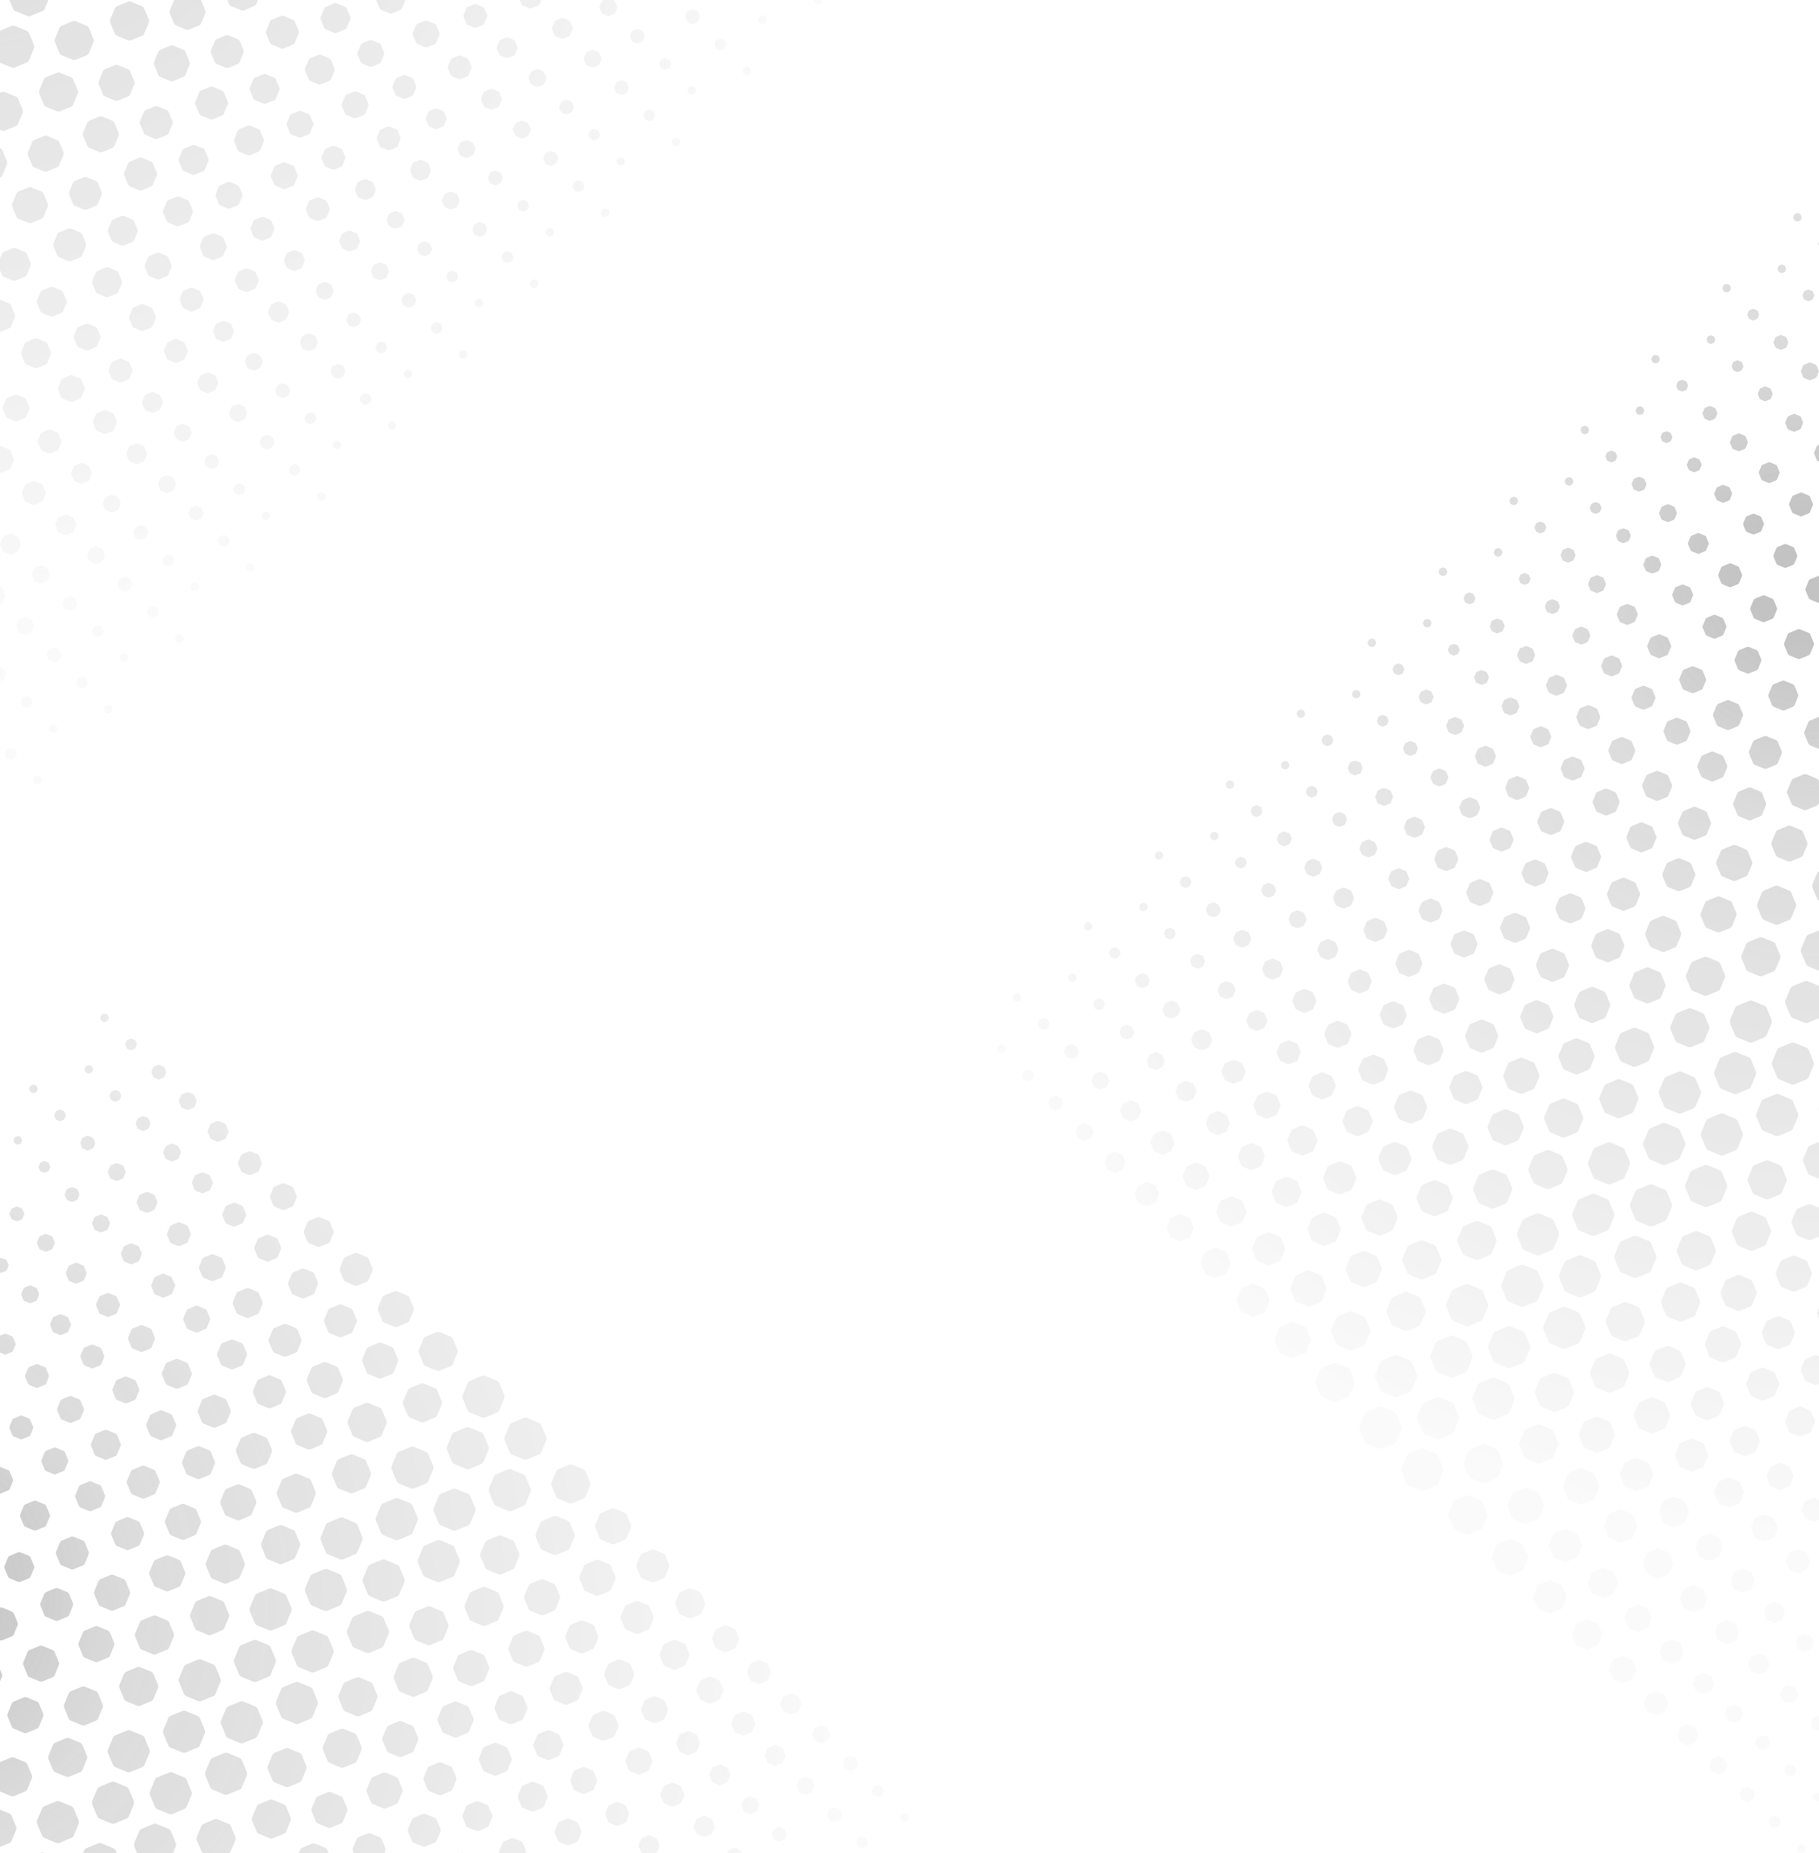
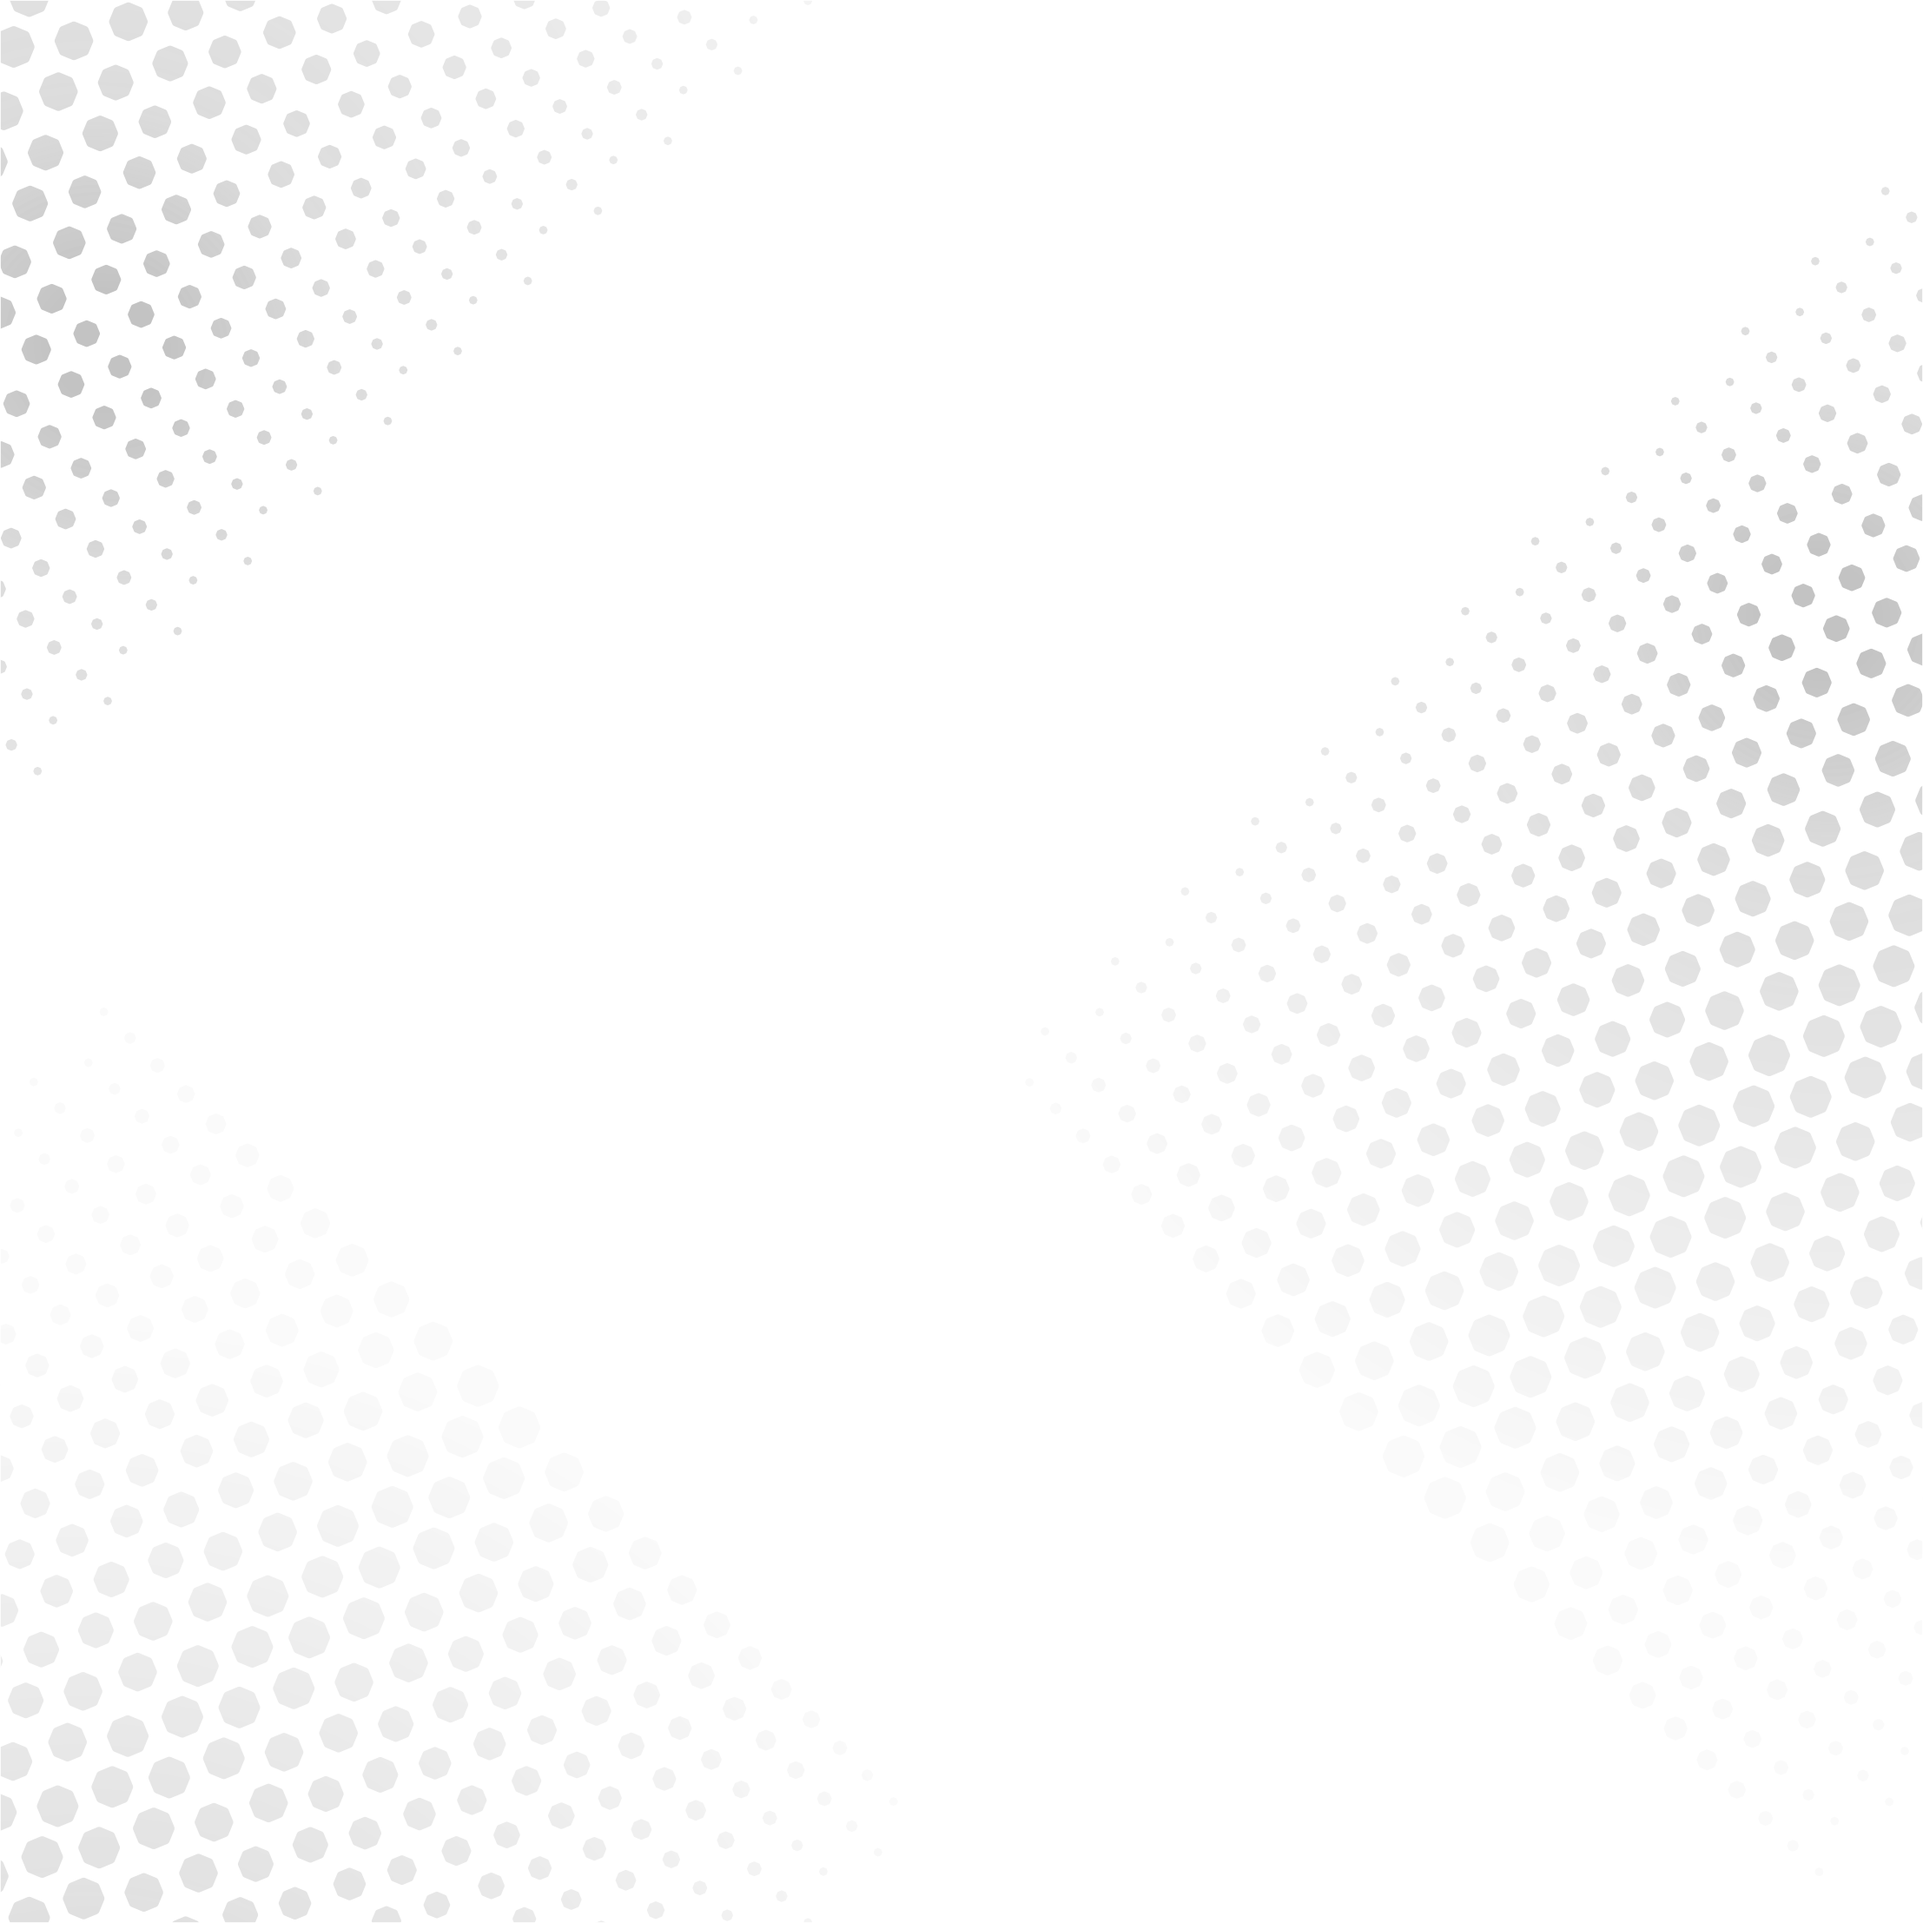
Correct Trama

diff --git a/src/pages/aboutus.js b/src/pages/aboutus.js
@@ -4,7 +4,7 @@ import get from 'lodash/get';
 import Container from '../components/Container';
 import AvatarTeam from '../components/Avatar';
 import { makeStyles } from '@material-ui/core/styles';
-import BackgroundImage from '../assets/Background.png';
+import BackgroundImage from '../assets/Trama.png';
 import Services from '../components/Services';
 import { Grid } from '@material-ui/core';
 

diff --git a/src/pages/news.js b/src/pages/news.js
@@ -9,7 +9,7 @@ import SearchIcon from '@material-ui/icons/Search';
 import PostPreView from '../components/PostPreView';
 import Container from '../components/Container';
 import Events from '../components/Events';
-import BackgroundImage from '../assets/Background.png';
+import BackgroundImage from '../assets/Trama.png';
 
 const styles = makeStyles({
   root: {

diff --git a/src/pages/ourservices.js b/src/pages/ourservices.js
@@ -2,7 +2,7 @@ import React from 'react';
 import { graphql } from 'gatsby';
 import get from 'lodash/get';
 import Container from '../components/Container';
-import BackgroundImage from '../assets/Background.png';
+import BackgroundImage from '../assets/Trama.png';
 import Services from '../components/Services';
 
 const OurServices = (props) => {
